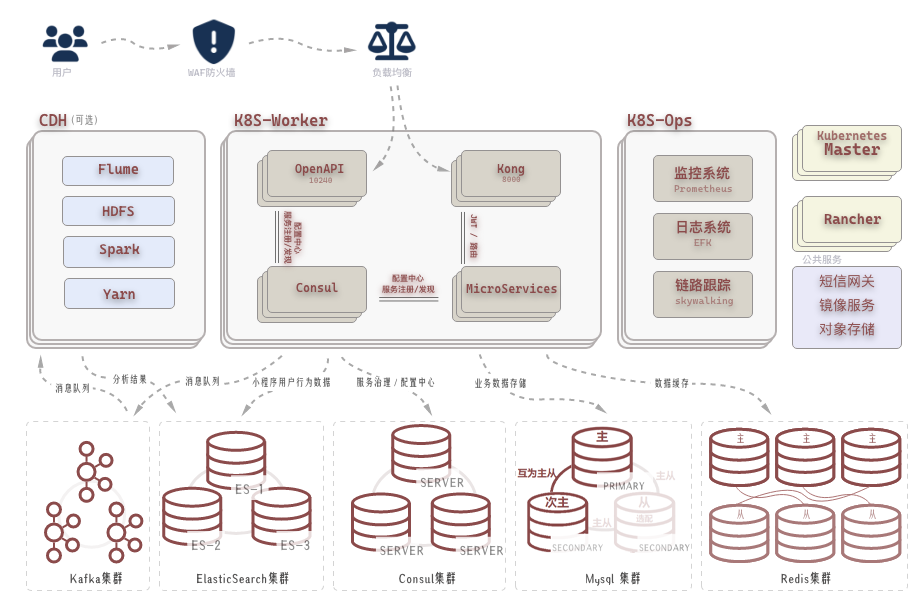
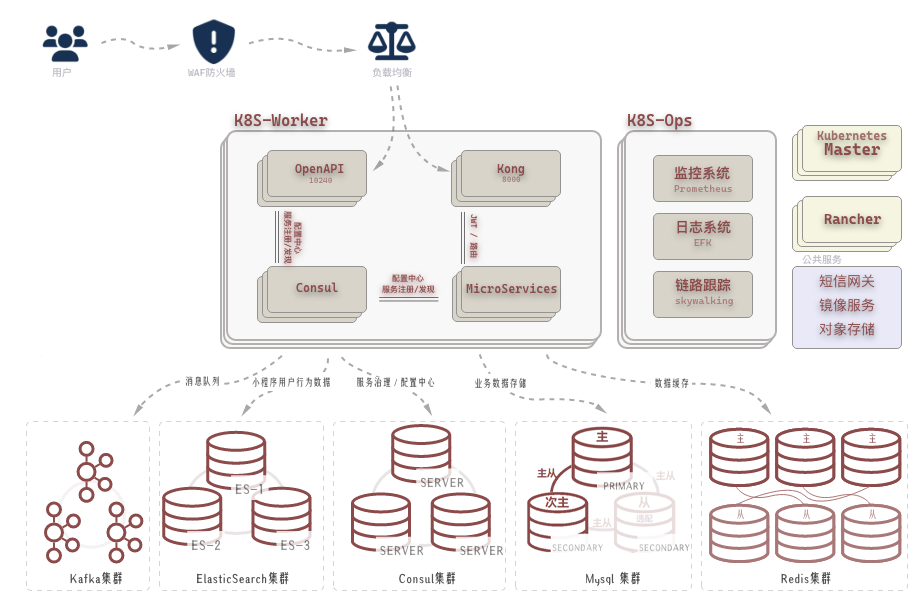
delete CDH; hide poc list

Changed region(s): [[0.0303, 0.1875, 0.2424, 0.6562], [0.5455, 0.75, 0.5758, 0.7812]]

diff --git a/docs/poclist.md b/docs/poclist.md
@@ -1,10 +1,3 @@
----
-id: poclist
-title: POC 指导手册
----
-
-
-
 # POC指导手册
 
 ## 一. 前言
